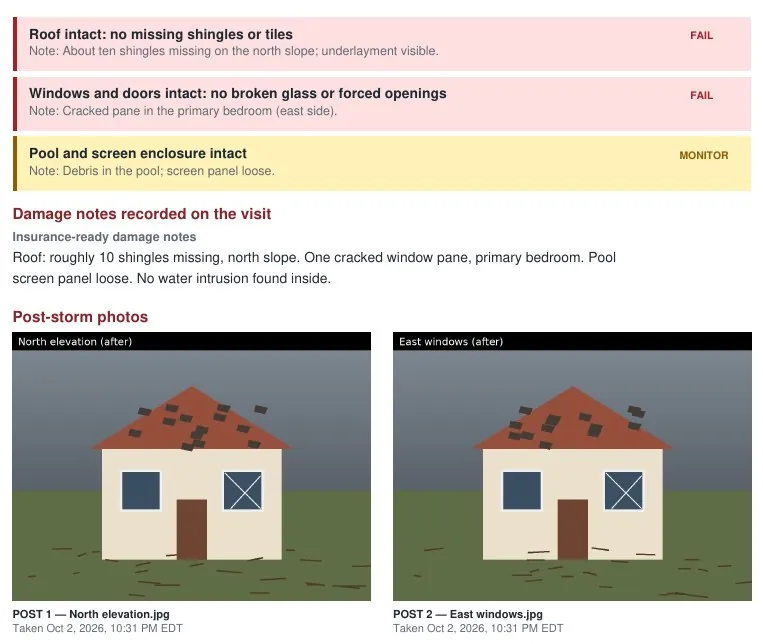
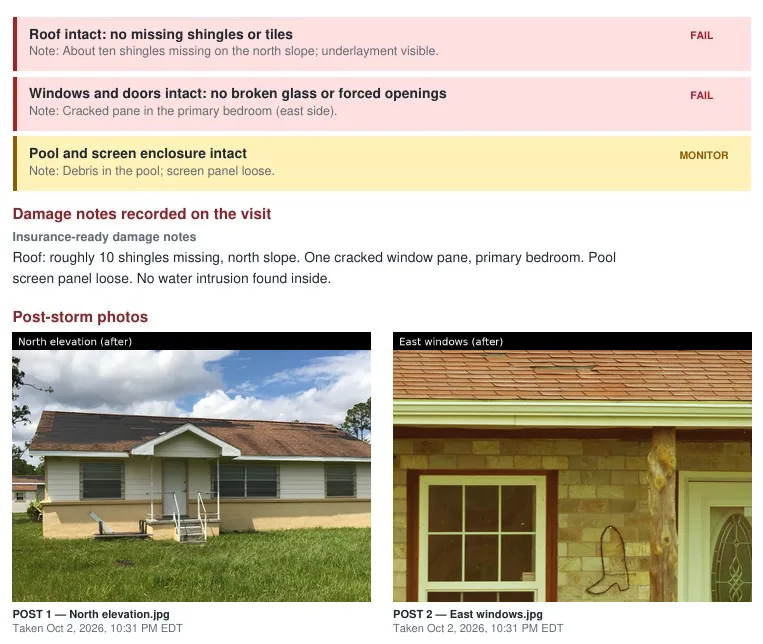
Homepage: nationwide positioning, storm season, real storm photos
- Speak to home watch and estate management companies across the US: hero eyebrow, What's new heading,
  meta description, Open Graph/Twitter tags (now the hero wording) and JSON-LD (areaServed: United States)
- 'Hurricane season' becomes 'Storm season' (#storm-season): hurricanes, winter storms, floods and severe
  thunderstorms; product features unchanged (bulk storm visits, live status board, insurance-ready report)
- Trust: 'Florida-based' replaced with 'Talk to a real person' (phone and help email)
- Storm report image: cartoon post-storm photos replaced with real public-domain photos (USFWS, FEMA),
  credited in public/img/CREDITS.md
- Tests: no Florida-only copy on marketing pages, share tags match the hero, storm photo credits

diff --git a/public/marketing.html b/public/marketing.html
@@ -1,9 +1,9 @@
 <!doctype html>
 <html lang="en">
 <head>
-  <meta charset="utf-8"><meta property="og:locale" content="en_US"><meta name="twitter:title" content="Home Watch &amp; Residence Management Software | EstateAegis"><meta name="twitter:description" content="Branded inspections, work orders, arrivals, schedules, and client and vendor portals in one workspace."><meta property="og:type" content="website"><meta property="og:site_name" content="EstateAegis"><meta property="og:title" content="Your residences. Your team. One place."><meta property="og:description" content="Bring inspections, service work, arrivals, and your people together under your company's brand."><meta property="og:url" content="https://estateaegis.com/"><meta name="twitter:card" content="summary_large_image"><meta property="og:image" content="https://estateaegis.com/share-preview.jpg"><meta property="og:image:secure_url" content="https://estateaegis.com/share-preview.jpg"><meta property="og:image:type" content="image/jpeg"><meta property="og:image:width" content="1200"><meta property="og:image:height" content="630"><meta property="og:image:alt" content="EstateAegis — private residence management with a preview of the dashboard"><meta name="twitter:image" content="https://estateaegis.com/share-preview.jpg"><meta name="twitter:image:alt" content="EstateAegis private residence management dashboard"><link rel="icon" href="/favicon.ico" sizes="48x48"><link rel="icon" type="image/png" sizes="32x32" href="/favicon-32.png"><link rel="apple-touch-icon" sizes="180x180" href="/apple-touch-icon.png?v=2"><meta name="viewport" content="width=device-width,initial-scale=1">
+  <meta charset="utf-8"><meta property="og:locale" content="en_US"><meta name="twitter:title" content="Home watch and estate management software, under your brand. | EstateAegis"><meta name="twitter:description" content="GPS-verified visits, offline mobile inspections and storm-ready reports for home watch and estate management companies across the US, all under your brand."><meta property="og:type" content="website"><meta property="og:site_name" content="EstateAegis"><meta property="og:title" content="Home watch and estate management software, under your brand."><meta property="og:description" content="GPS-verified visits, offline mobile inspections and storm-ready reports for home watch and estate management companies across the US, all under your brand."><meta property="og:url" content="https://estateaegis.com/"><meta name="twitter:card" content="summary_large_image"><meta property="og:image" content="https://estateaegis.com/share-preview.jpg"><meta property="og:image:secure_url" content="https://estateaegis.com/share-preview.jpg"><meta property="og:image:type" content="image/jpeg"><meta property="og:image:width" content="1200"><meta property="og:image:height" content="630"><meta property="og:image:alt" content="EstateAegis — private residence management with a preview of the dashboard"><meta name="twitter:image" content="https://estateaegis.com/share-preview.jpg"><meta name="twitter:image:alt" content="EstateAegis private residence management dashboard"><link rel="icon" href="/favicon.ico" sizes="48x48"><link rel="icon" type="image/png" sizes="32x32" href="/favicon-32.png"><link rel="apple-touch-icon" sizes="180x180" href="/apple-touch-icon.png?v=2"><meta name="viewport" content="width=device-width,initial-scale=1">
   <title>Home Watch &amp; Residence Management Software | EstateAegis</title>
-  <meta name="description" content="Home watch and private residence management software with branded inspection reports, work orders, arrival prep, and client and vendor portals.">
+  <meta name="description" content="Home watch and estate management software for companies across the US: GPS-verified visits, offline inspections, storm reports and branded client portals.">
   <link rel="canonical" href="https://estateaegis.com/">
   <meta name="robots" content="index, follow, max-image-preview:large">
   
@@ -21,7 +21,8 @@
         "@id": "https://estateaegis.com/#organization",
         "name": "EstateAegis",
         "url": "https://estateaegis.com/",
-        "description": "Private residence management software for inspections, work orders, arrivals, and client communication.",
+        "description": "Home watch and estate management software for companies across the United States: GPS-verified visits, offline inspections, storm workflows and branded client reports.",
+        "areaServed": {"@type":"Country","name":"United States"},
         "telephone": "+1-772-237-1382",
         "email": "sales@estateaegis.com",
         "contactPoint": [
@@ -42,7 +43,7 @@
         "@id": "https://estateaegis.com/#webpage",
         "url": "https://estateaegis.com/",
         "name": "Home Watch & Residence Management Software | EstateAegis",
-        "description": "Home watch and private residence management software with branded inspection reports, work orders, arrival prep, and client and vendor portals.",
+        "description": "Home watch and estate management software for companies across the US: GPS-verified visits, offline inspections, storm reports and branded client portals.",
         "isPartOf": {"@id":"https://estateaegis.com/#website"},
         "about": {"@id":"https://estateaegis.com/#organization"},
         "inLanguage": "en-US"
@@ -58,11 +59,11 @@
 <link rel="stylesheet" href="/refresh.css"><link rel="stylesheet" href="/home-refresh.css"></head>
 <body>
 <a class="skip" href="#main">Skip to content</a>
-<header class="site-header"><a class="brand" href="/" aria-label="EstateAegis home"><img class="ea-brand-icon" src="/ea-shield-80.png" srcset="/ea-shield-80.png 2x, /ea-shield-120.png 3x" alt="" width="40" height="40">EstateAegis</a><a class="button primary nav-cta nav-cta-sm" href="/demo">Start free demo</a><nav aria-label="Main navigation"><a href="#whats-new">What’s new</a><a href="#hurricane">Hurricane season</a><a class="hide-md" href="#features">Features</a><a class="hide-sm" href="#tutorial">Tutorial</a><a href="#pricing">Pricing</a><a class="login" href="/login">Log in <span aria-hidden="true">↗</span></a><a class="button primary nav-cta hide-sm" href="/demo">Start free demo</a></nav></header>
+<header class="site-header"><a class="brand" href="/" aria-label="EstateAegis home"><img class="ea-brand-icon" src="/ea-shield-80.png" srcset="/ea-shield-80.png 2x, /ea-shield-120.png 3x" alt="" width="40" height="40">EstateAegis</a><a class="button primary nav-cta nav-cta-sm" href="/demo">Start free demo</a><nav aria-label="Main navigation"><a href="#whats-new">What’s new</a><a href="#storm-season">Storm season</a><a class="hide-md" href="#features">Features</a><a class="hide-sm" href="#tutorial">Tutorial</a><a href="#pricing">Pricing</a><a class="login" href="/login">Log in <span aria-hidden="true">↗</span></a><a class="button primary nav-cta hide-sm" href="/demo">Start free demo</a></nav></header>
 <main id="main">
 <section class="hero wrap" aria-labelledby="hero-title">
   <div class="hero-copy">
-    <p class="eyebrow">For Florida home watch &amp; estate management companies</p>
+    <p class="eyebrow">For home watch &amp; estate management companies across the US</p>
     <h1 id="hero-title">Home watch and estate <br class="br-lg">management software, <br class="br-lg">under your brand.</h1>
     <p class="lead">GPS-verified visits, offline mobile inspections and storm-ready reports, all carrying your company’s name and logo.</p>
     <ul class="hero-proof" aria-label="Highlights"><li>Client &amp; vendor portals</li><li>Custom checklists</li><li>Fail alerts to your office</li></ul>
@@ -79,15 +80,15 @@
     </div>
   </div>
 </section>
-<div class="value-strip"><div class="wrap"><span>GPS-verified visits</span><span>Works offline in the field</span><span>Hurricane &amp; storm workflow</span><span>Company-branded reports</span><span>Client &amp; vendor portals</span></div></div>
+<div class="value-strip"><div class="wrap"><span>GPS-verified visits</span><span>Works offline in the field</span><span>Storm &amp; severe weather workflow</span><span>Company-branded reports</span><span>Client &amp; vendor portals</span></div></div>
 
 <section class="wrap section" id="whats-new" aria-labelledby="new-title">
-  <div class="section-heading"><p class="eyebrow">What’s new in EstateAegis</p><h2 id="new-title">Built for the way Florida home watch actually works.</h2><p>Five new tools for the field and the office, from the first walkthrough to the week after a storm.</p></div>
+  <div class="section-heading"><p class="eyebrow">What’s new in EstateAegis</p><h2 id="new-title">Built for the way home watch actually works.</h2><p>Five new tools for the field and the office, from the first walkthrough to the week after a storm.</p></div>
   <div class="new-grid">
     <article class="new-card">
       <div class="thumb"><img src="/img/new-checklist-templates.webp" width="780" height="520" loading="lazy" decoding="async" alt="Checklist item on a phone marked Required, Photo required if failed, and Alerts the office on fail, with Pass, Fail and N/A buttons"></div>
       <div class="new-body"><span class="feature-number"><span class="new-tag">NEW</span>01 / Checklists</span><h3>Custom checklist templates.</h3><p>Build your own visit checklists, or start from ready-made templates and adjust them to each home.</p>
-        <ul class="mini-checks"><li>Starters for routine, arrival, departure, seasonal, maintenance, hurricane prep and post-storm visits</li><li>Mark items required, ask for a photo on fail, and choose which items alert the office</li><li>Field staff only see a checklist once you publish it</li></ul></div>
+        <ul class="mini-checks"><li>Starters for routine, arrival, departure, seasonal, maintenance, pre-storm (hurricane prep) and post-storm visits</li><li>Mark items required, ask for a photo on fail, and choose which items alert the office</li><li>Field staff only see a checklist once you publish it</li></ul></div>
     </article>
     <article class="new-card">
       <div class="thumb"><img src="/img/new-offline-inspections.webp" width="780" height="520" loading="lazy" decoding="async" alt="Phone inspection screen showing Offline · 4 changes waiting and a banner: inspections and photos are saved on this device and sync when you’re back online"></div>
@@ -106,23 +107,23 @@
     </article>
     <article class="new-card wide">
       <div class="thumb inset"><img src="/img/new-storm-card.webp" width="780" height="626" loading="lazy" decoding="async" alt="Storm board card for Ocean House: prep secured with issues, damage found (moderate), with Update status and Storm report buttons"></div>
-      <div class="new-body"><span class="feature-number"><span class="new-tag">NEW</span>05 / Storms</span><h3>Hurricane &amp; storm workflow.</h3><p>Run a storm from the first warning to the last post-storm check, and send each family an insurance-ready storm report.</p>
+      <div class="new-body"><span class="feature-number"><span class="new-tag">NEW</span>05 / Storms</span><h3>Storm &amp; severe weather workflow.</h3><p>A hurricane, a winter storm, a flood or a severe thunderstorm: run it from the first warning to the last post-storm check, and send each family an insurance-ready storm report.</p>
         <ul class="mini-checks"><li>Pre-storm and post-storm visits for every home, in bulk</li><li>Prep and damage status for each residence on one board</li></ul></div>
     </article>
   </div>
   <p class="fig-note">Screens from demonstration workspaces with sample data.</p>
 </section>
 
-<section class="storm-band" id="hurricane" aria-labelledby="storm-title">
+<section class="storm-band" id="storm-season" aria-labelledby="storm-title">
   <div class="wrap">
     <div class="storm-head">
-      <div><p class="eyebrow">Hurricane season, handled</p><h2 id="storm-title">When a storm is coming, every home is accounted for.</h2><p>Plan the prep, watch it get done, and document what you found after, without a spreadsheet or a group text.</p></div>
-      <div class="storm-season"><strong>Ready before the cone shifts</strong>Hurricane prep and post-storm checklists are included as starter templates. Edit them to match your own standards.</div>
+      <div><p class="eyebrow">Storm season, handled</p><h2 id="storm-title">When severe weather is coming, every home is accounted for.</h2><p>Hurricanes, winter storms, floods and severe thunderstorms: plan the prep, watch it get done, and document what you found after, without a spreadsheet or a group text.</p></div>
+      <div class="storm-season"><strong>Ready before the forecast turns</strong>Pre-storm (hurricane prep) and post-storm checklists are included as starter templates. Adapt them to the weather you face, from freeze prep to flood checks.</div>
     </div>
     <ol class="storm-steps">
       <li>
         <div class="storm-shot"><img src="/img/storm-bulk-visits.webp" width="780" height="624" loading="lazy" decoding="async" alt="Scheduling pre-storm visits on a phone: visit date, the newest published hurricane prep checklist, and visits shared among team members"><span class="storm-toast">3 visits created using Hurricane prep (version 1).</span></div>
-        <span class="step-num">1</span><h3>Bulk storm visits.</h3><p>Pick the residences, choose your hurricane prep checklist and share the visits across your team. One step schedules every home.</p>
+        <span class="step-num">1</span><h3>Bulk storm visits.</h3><p>Pick the residences, choose your pre-storm checklist and share the visits across your team. One step schedules every home.</p>
         <ul class="facts"><li>Pre-storm and post-storm visits</li><li>Only homes without a visit get a new one</li></ul>
       </li>
       <li>
@@ -131,7 +132,7 @@
         <ul class="facts"><li>Updates on its own every 30 seconds</li><li>Message families, export a CSV or a summary PDF</li></ul>
       </li>
       <li>
-        <div class="storm-shot"><img src="/img/storm-report-page.webp" width="763" height="644" loading="lazy" decoding="async" alt="Storm report page with failed roof and window items, insurance-ready damage notes, and timestamped post-storm photos"></div>
+        <div class="storm-shot bottom"><img src="/img/storm-report-page.webp" width="763" height="644" loading="lazy" decoding="async" alt="Storm report page with failed roof and window items, insurance-ready damage notes, and timestamped post-storm photos of a roof with missing shingles and the east windows"></div>
         <span class="step-num">3</span><h3>Insurance-ready storm report.</h3><p>Each family gets one branded report: before and after photos, GPS-verified visits, a timeline and damage notes ready to share with their insurer.</p>
         <ul class="facts"><li>Timestamped photos from both visits</li><li>Damage severity and inspector notes</li></ul>
       </li>
@@ -159,7 +160,7 @@
     <div class="trust-item"><span class="icon"><svg viewBox="0 0 24 24" aria-hidden="true"><rect x="3" y="4" width="7" height="7" rx="1.5"/><rect x="14" y="4" width="7" height="7" rx="1.5"/><rect x="8.5" y="14" width="7" height="7" rx="1.5"/></svg></span><h3>Separate client, vendor and admin portals.</h3><p>Clients, vendors and your team each sign in to their own portal and see only what their role allows.</p></div>
     <div class="trust-item"><span class="icon"><svg viewBox="0 0 24 24" aria-hidden="true"><circle cx="8" cy="12" r="4"/><path d="M12 12h9M18 12v3M21 12v2"/></svg></span><h3>Audited access codes.</h3><p>Gate, door, alarm and lockbox codes are limited to administrators and the assigned residence manager. Every view and change is recorded.</p></div>
     <div class="trust-item"><span class="icon"><svg viewBox="0 0 24 24" aria-hidden="true"><path d="M7 3h7l5 5v13H7z"/><path d="M14 3v5h5M10 13h6M10 17h4"/></svg></span><h3>Company-branded reports.</h3><p>Your company name and logo lead every report. EstateAegis appears only as “Powered by EstateAegis” in the footer.</p></div>
-    <div class="trust-item"><span class="icon"><svg viewBox="0 0 24 24" aria-hidden="true"><path d="M12 21s-6-5.3-6-10a6 6 0 0 1 12 0c0 4.7-6 10-6 10z"/><circle cx="12" cy="11" r="2.2"/></svg></span><h3>Florida-based.</h3><p>EstateAegis is a Florida company. Talk to us directly at <a href="tel:+17722371382">772-237-1382</a>.</p></div>
+    <div class="trust-item"><span class="icon"><svg viewBox="0 0 24 24" aria-hidden="true"><path d="M6.5 3.5h3l1.5 4-2 1.5a11 11 0 0 0 6 6l1.5-2 4 1.5v3a2 2 0 0 1-2 2A16 16 0 0 1 4.5 5.5a2 2 0 0 1 2-2z"/></svg></span><h3>Talk to a real person.</h3><p>Questions about your workspace? Call us directly at <a href="tel:+17722371382">772-237-1382</a> or email <a href="mailto:help@estateaegis.com">help@estateaegis.com</a>.</p></div>
   </div>
 </section>
 

diff --git a/public/home-refresh.css b/public/home-refresh.css
@@ -80,6 +80,7 @@ h3{font-size:20px;line-height:1.28;letter-spacing:-.35px;margin:14px 0 10px}
 .storm-steps>li{display:flex;flex-direction:column}
 .storm-shot{position:relative;background:#fff;border-radius:8px;padding:10px;aspect-ratio:5/4;overflow:hidden}
 .storm-shot img{border-radius:4px;width:100%;height:100%;object-fit:cover;object-position:top}
+.storm-shot.bottom img{object-position:center bottom}
 .storm-toast{position:absolute;right:14px;bottom:14px;left:14px;background:#4f4535;color:#fff;border-radius:6px;padding:10px 14px;font-size:13px;line-height:1.4;box-shadow:0 10px 20px #0000003a}
 .step-num{display:inline-grid;place-items:center;width:34px;height:34px;border:1px solid #bba47e;border-radius:50%;color:#eed4a2;font-family:Georgia,"Times New Roman",serif;margin:22px 0 0}
 .storm-steps h3{color:#faf8f3;font-size:21px}

diff --git a/public/img/CREDITS.md b/public/img/CREDITS.md
@@ -1,0 +1,12 @@
+# Image credits
+
+Product screenshots in this folder come from EstateAegis demonstration workspaces with sample data.
+
+`storm-report-page.webp` is a storm report page from a demonstration workspace. Its two "Post-storm photos" panels show the real photographs below, cropped and resized. Both are U.S. federal government works in the **public domain**. Their licences don't require attribution; the credits are listed here for the record.
+
+| Panel | Photo | Source | Author | Licence |
+| --- | --- | --- | --- | --- |
+| North elevation (after) | "Missing shingles" (house with storm-damaged roof shingles) | https://commons.wikimedia.org/wiki/File:Missing_shingles_(37075099182).jpg (original: https://www.flickr.com/photos/usfwssoutheast/37075099182/) | U.S. Fish and Wildlife Service Southeast Region | Public domain (work of the U.S. federal government) |
+| East windows (after) | FEMA photo 44325 (roof and front windows of a storm-damaged home; the cropped panel leaves out the tarp) | https://commons.wikimedia.org/wiki/File:FEMA_-_44325_-_Blue_tarp_on_a_tornado_damaged_home_in_Oklahoma.jpg | Win Henderson / FEMA | Public domain (work of the U.S. federal government) |
+
+The photos contain no people and no house numbers.
